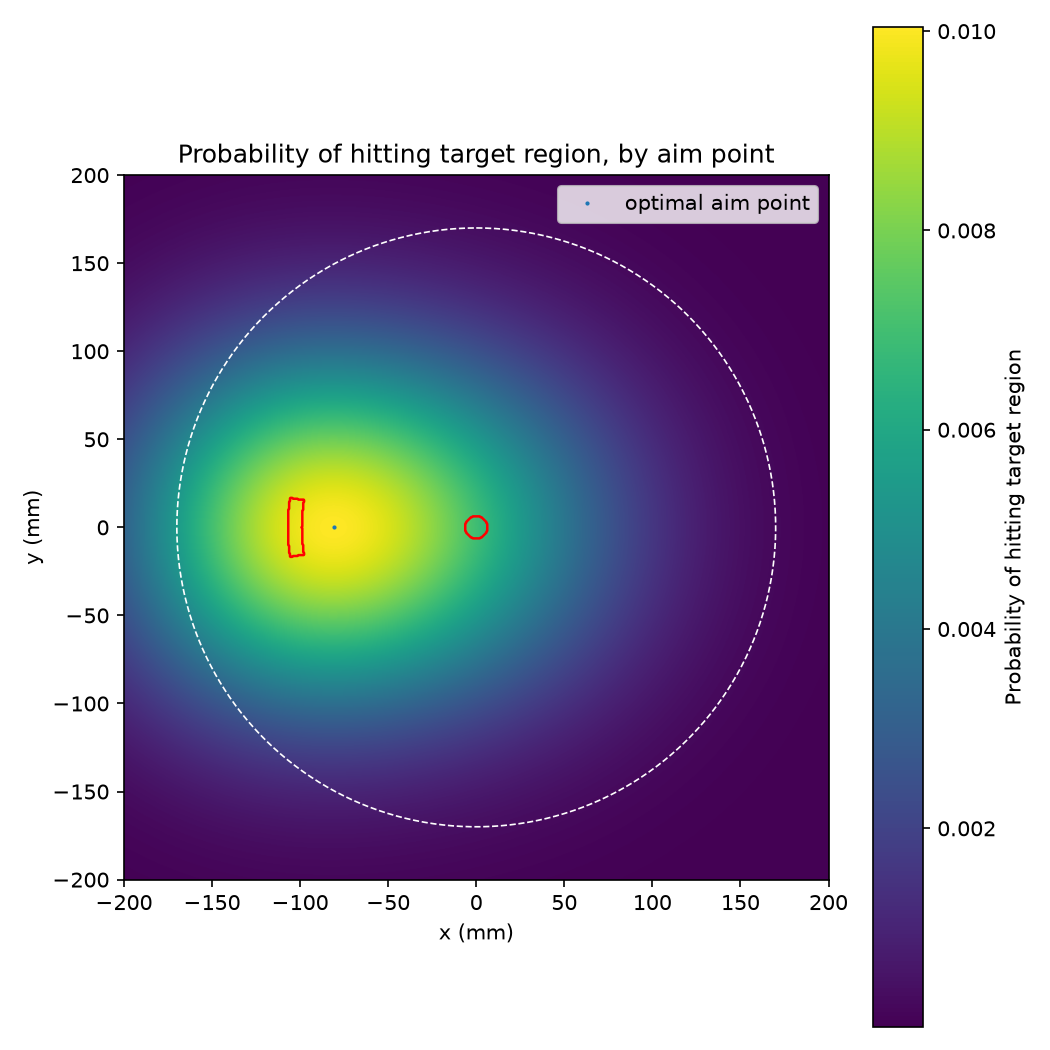
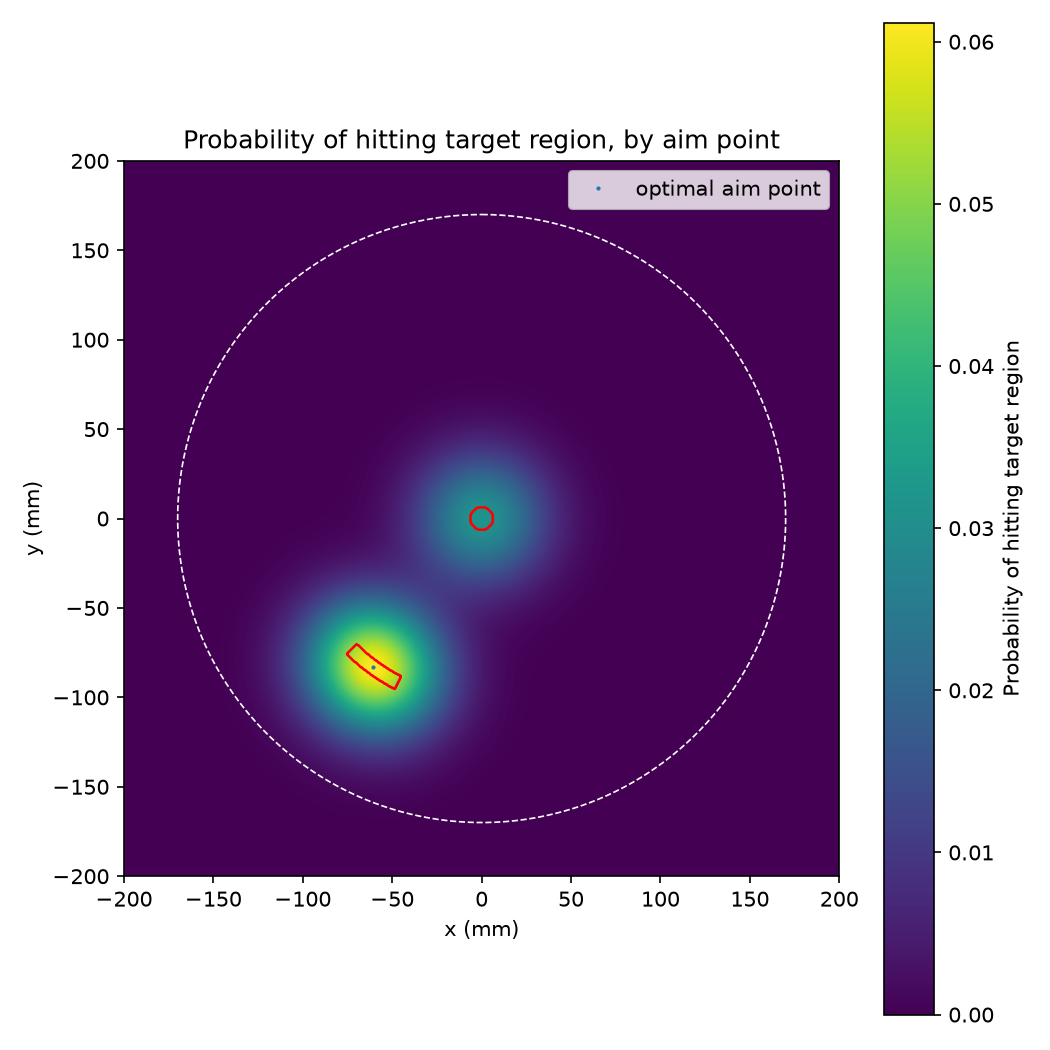
region defined for each valid single-dart score

diff --git a/dart_optimizer.py b/dart_optimizer.py
@@ -105,12 +105,12 @@ def region(n):
     (t * triple_region(n/3))
   )
 
-target_mask = region(33).astype(float)
+target_mask = region(21).astype(float)
 
 # ----------------------------------------------------------------------
 # 4. Your throw's spread -- REPLACE these with your own measured values (mm)
 # ----------------------------------------------------------------------
-sigma_x = sigma_y = 70.0
+sigma_x = sigma_y = 25.0
 
 # ----------------------------------------------------------------------
 # 5. METHOD A -- the direct, "by hand" way, for exactly ONE aim point.
@@ -118,6 +118,7 @@ sigma_x = sigma_y = 70.0
 #    target region. Slow if repeated for every aim point, but it's the
 #    ground truth, and it's exactly the process we described in words.
 # ----------------------------------------------------------------------
+"""
 def probability_at_aim(aim_x, aim_y, sigma_x, sigma_y, X, Y, mask, cell_area):
     density = (1.0 / (2 * np.pi * sigma_x * sigma_y)) * np.exp(
         -(((X - aim_x) ** 2) / (2 * sigma_x ** 2) + ((Y - aim_y) ** 2) / (2 * sigma_y ** 2))
@@ -128,7 +129,7 @@ def probability_at_aim(aim_x, aim_y, sigma_x, sigma_y, X, Y, mask, cell_area):
 test_aim = (0.0, 103.0)   # try aiming at the middle of the triple-20 bed (straight up, r~103mm)
 p_direct = probability_at_aim(*test_aim, sigma_x, sigma_y, X, Y, target_mask, cell_area)
 print(f"Method A (direct sum) at aim={test_aim}: {p_direct:.4f}")
-
+"""
 # ----------------------------------------------------------------------
 # 6. METHOD B -- the fast way: do that SAME sum for every possible aim
 #    point at once, by Gaussian-blurring the target mask. This computes an
@@ -138,9 +139,11 @@ sigma_px = (sigma_y / RES, sigma_x / RES)   # array axis 0 = y, axis 1 = x
 P = gaussian_filter(target_mask, sigma=sigma_px, mode='constant')
 
 # sanity check: Method B's value at the same test point should match Method A
+"""
 iy = np.argmin(np.abs(coords - test_aim[1]))
 ix = np.argmin(np.abs(coords - test_aim[0]))
 print(f"Method B (blurred grid) at same point:  {P[iy, ix]:.4f}")
+"""
 
 # ----------------------------------------------------------------------
 # 7. Find the best aim point
@@ -153,8 +156,31 @@ best_theta = np.degrees(np.arctan2(best_x, best_y)) % 360
 
 print(f"\nBest aim point: x={best_x:.1f} mm, y={best_y:.1f} mm")
 print(f"  (equivalently: r={best_r:.1f} mm, theta={best_theta:.1f} deg clockwise from top)")
-print(f"Probability of hitting the target region there: {best_p:.4f}")
-
+print(f"Probability of hitting the target region there: {best_p:.5f}")
+# ----------------------------------------------------------------------
+# 7b. Look up the probability at ANY specific aim point from the heatmap
+#     you already computed -- pass either (x, y) or (r, theta), not both.
+# ----------------------------------------------------------------------
+def probability_lookup(P, coords, x=None, y=None, r=None, theta=None):
+    """Nearest-grid-cell lookup of P at a single aim point.
+    theta is in degrees, 0 = straight up, clockwise-positive (matches the board)."""
+    if r is not None and theta is not None:
+        theta_rad = np.radians(theta)
+        x = r * np.sin(theta_rad)
+        y = r * np.cos(theta_rad)
+    elif x is None or y is None:
+        raise ValueError("Provide either (x, y) or (r, theta), not neither")
+ 
+    ix = np.argmin(np.abs(coords - x))
+    iy = np.argmin(np.abs(coords - y))
+    return P[iy, ix]
+ 
+ 
+# examples -- both describe the same physical point, so they should agree
+p_xy = probability_lookup(P, coords, x=0.0, y=103.0)
+p_polar = probability_lookup(P, coords, r=103.0, theta=0.0)
+print(f"\nLookup by (x,y):     {p_xy:.4f}")
+print(f"Lookup by (r,theta): {p_polar:.4f}")
 # ----------------------------------------------------------------------
 # 8. Plot
 # ----------------------------------------------------------------------

diff --git a/notebook/notes.md b/notebook/notes.md
@@ -6,4 +6,10 @@ Vision:
 This means that to find the best shot 
 
 Starting fresh - given a prob dist we can definitely calculate the prob of winning given score after 2 darts. 
-The probability of winning based on where we aim with the second dart is the sum of all probabilities of landing in 
+The probability of winning based on where we aim with the second dart is the sum of all probabilities of landing in
+
+
+Next: function to find probability when inputing a certain point
+  Actually toward goal - find probabilities of each hitting each possible number for a given variance
+  need probability of winning if you have n to go on your 3rd dart (by calculating probability of success when aimed optimally for that last dart)
+  

diff --git a/notebook/script.md b/notebook/script.md
@@ -1,0 +1,10 @@
+# Intro
+
+
+# Game Rules/History
+The game of 50 dates all the way back to the year 2025 when I was throwing darts in my parent's basement and I made it up. 
+The rules to 50 are very simple. You have 3 darts to score exactly 50 points. That's it. Well, that's almost it. There's 
+
+# Intuitive Strategy (Baseline)
+
+
